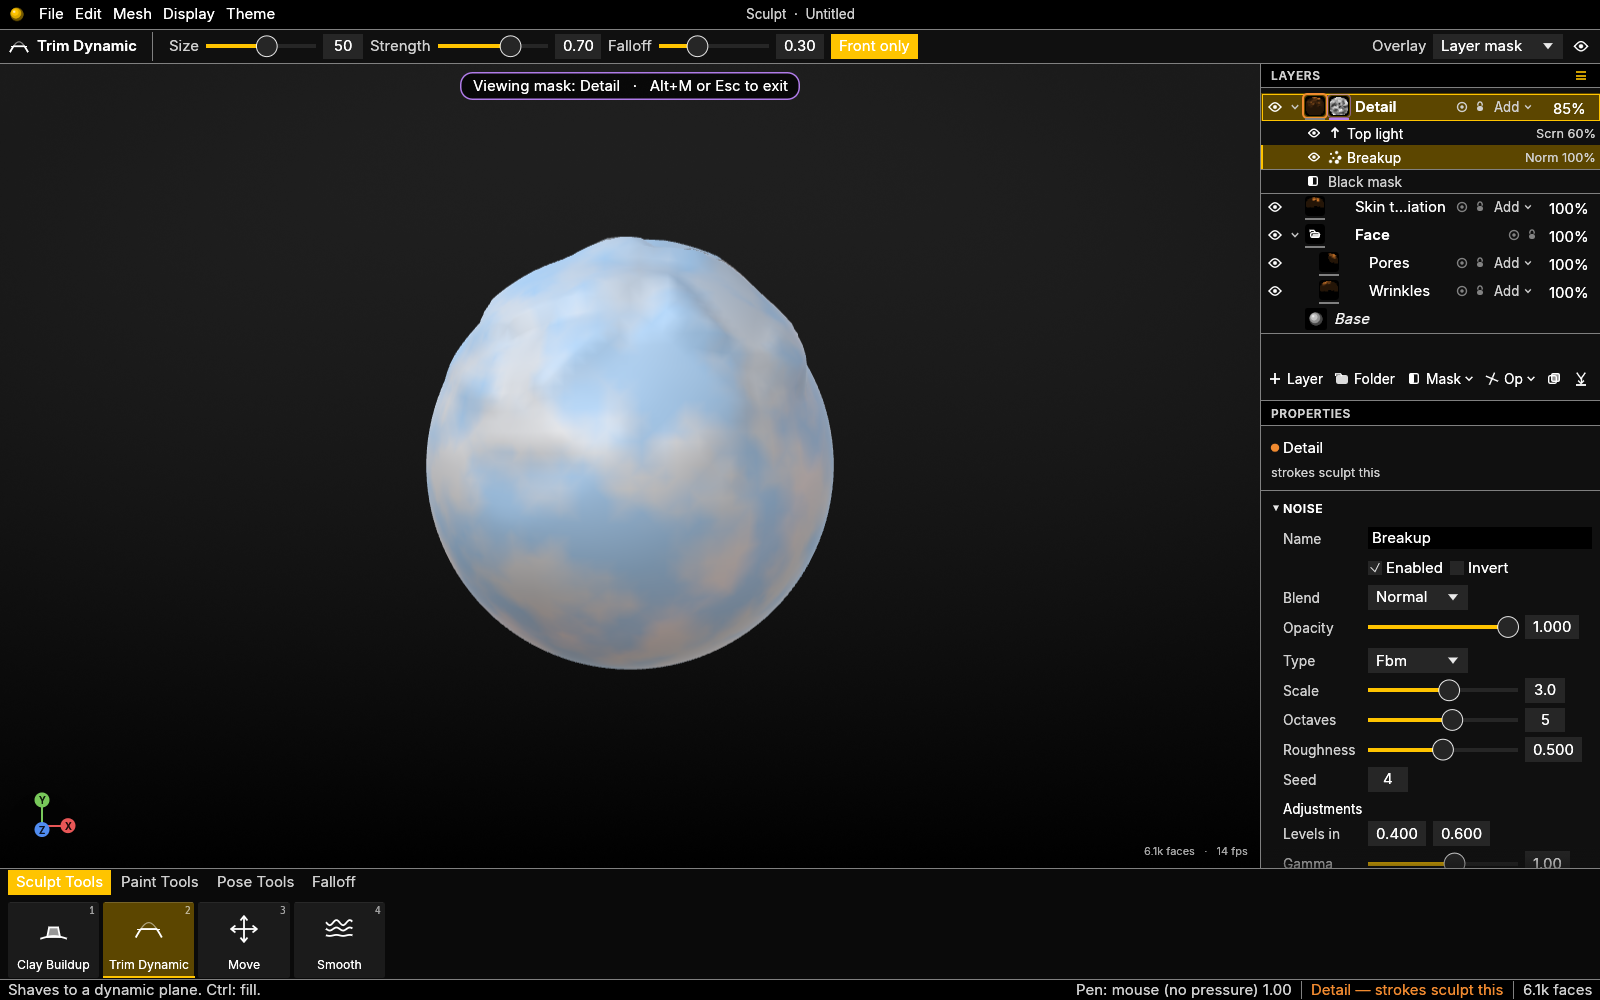
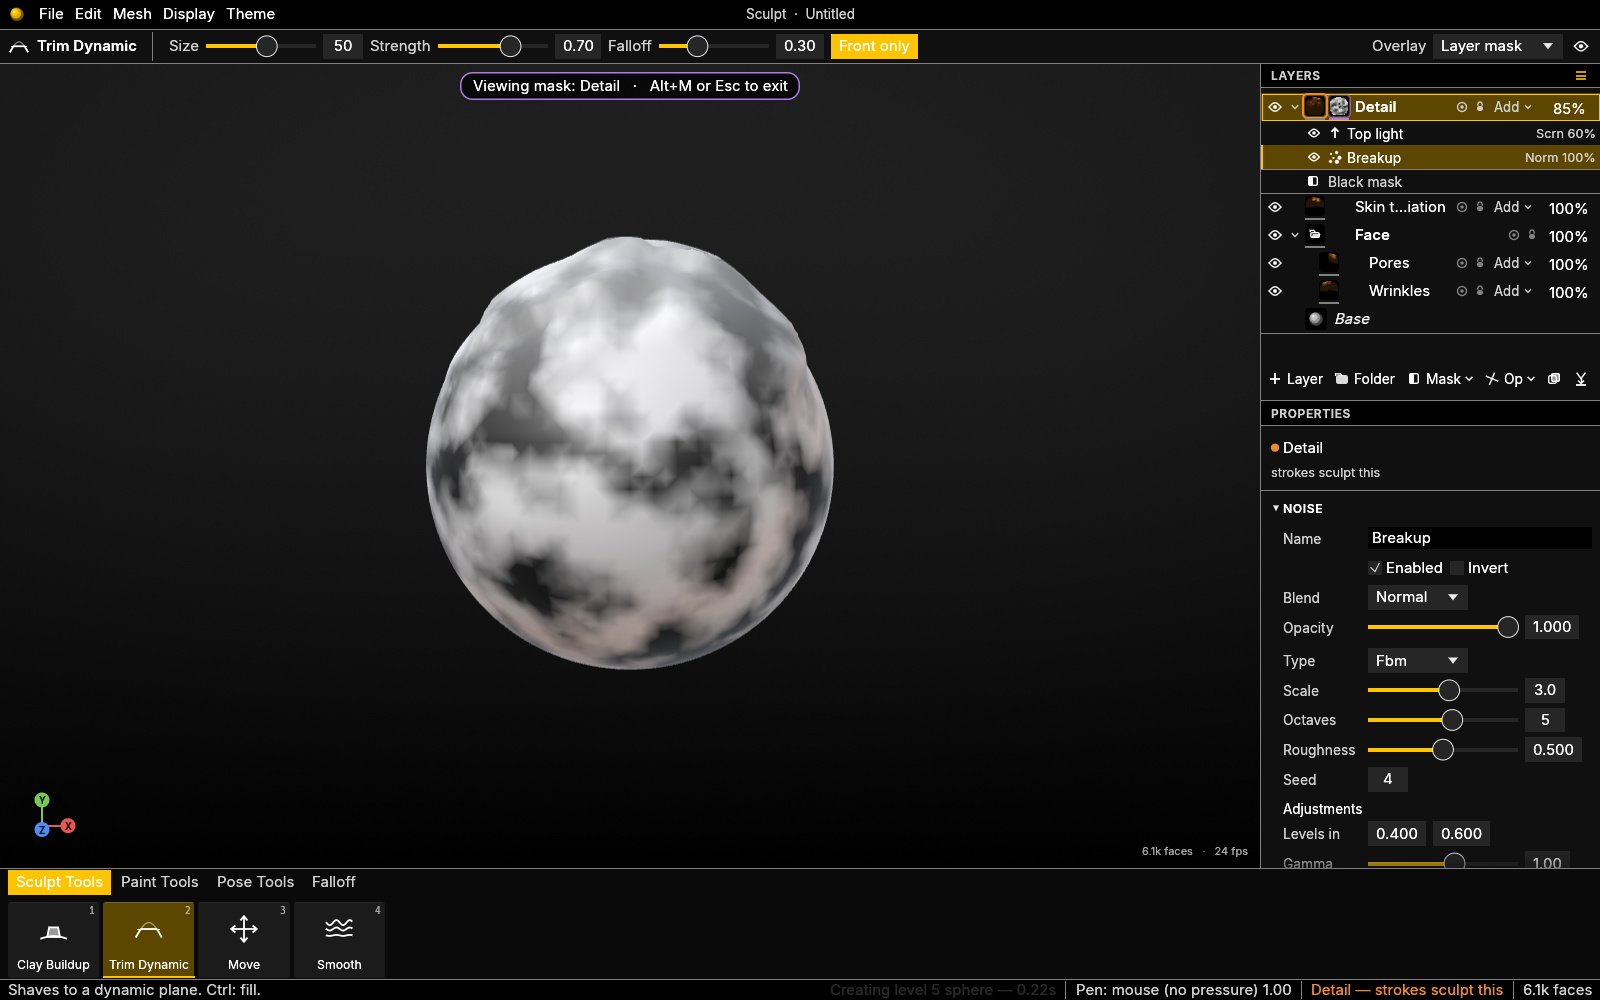
Radial ring spacing, docs and final capture set for review
Claude-Session: https://claude.ai/code/session_014dJVvZd6QPXwgevjRGwxr4

Changed region(s): [[0.25, 0.217, 0.5312, 0.682], [0.5312, 0.992, 0.625, 1.0], [0.7188, 0.837, 0.75, 0.868]]

diff --git a/sculpt/crates/sculpt-app/src/layer_panel/radial.rs b/sculpt/crates/sculpt-app/src/layer_panel/radial.rs
@@ -8,8 +8,8 @@ use super::mask_ops::{MaskAction, Preset};
 use crate::app::SculptApp;
 use crate::keymap::Command;
 
-const RADIUS: f32 = 82.0;
-const ITEM: egui::Vec2 = vec2(86.0, 30.0);
+const RADIUS: f32 = 120.0;
+const ITEM: egui::Vec2 = vec2(88.0, 30.0);
 
 /// What a radial item does when picked.
 #[derive(Clone, Debug, PartialEq)]

diff --git a/sculpt/docs/ux/scores/m6/CAPTIONS.md b/sculpt/docs/ux/scores/m6/CAPTIONS.md
@@ -4,13 +4,15 @@ Headless captures of the real app at 1600x1000 (software renderer). Menus and dr
 by a test hook, because a still image cannot hold an open menu. Hotkeys, inline typing and live clicks cannot
 be seen in stills. Panel crops show the right dock (layers over Properties).
 
-- `view_mask_banner.png`: the viewport while a mask is viewed (the Overlay is set to Layer mask): a banner names the layer and says how to exit. The overlay tints the surface.
+- `view_mask_banner.png`: the viewport while a mask is viewed: the surface shows the mask as greyscale (white applies, dark hidden) and a banner names the layer and says how to exit.
+- `more_states.png`: `nested` (a folder inside a folder), `drag_copy` (Ctrl+drag a row onto a folder: the ghost reads "(copy)"), `op_drag` (a mask op dragged to the top: purple insertion line), `folder_props` (Properties for a selected folder), `mask_base` (Properties for a mask's base value), and the earlier multi-select states view.
+- `radial.png`: the radial menu at the cursor (Q): eight layer actions around the pointer.
 - `full_default.png`: whole app. Layers top right, Properties below, paint target in the status bar.
 - `rows_a.png`: default; `states` (Pores hidden, Wrinkles locked, both selected, Skin tone at 40%); `multi` (two rows selected, Properties shows shared fields); `compact` (dense rows); `blend` (layers set to Min, Max, Normal, Subtract); `solo` (Skin tone soloed, others dimmed).
 - `rows_b.png`: `collapsed` folder; `rename` (inline edit of Wrinkles); `mask_off` (Detail's mask disabled); `preset` (a Curvature mask made in one step on Skin tone, selected); the add-mask menu on a layer without a mask, then on a layer with one.
 - `paint_target.png`: a hand-painted mask was just added to Skin tone in one step, its Paint op is selected and Mask Paint is the tool. Properties header and thumbnail frame show the target.
 - `paint_target_chip.png`: the brush chip in that same state.
-- `menus.png`: right-click menus: on a layer, on a folder, on a mask op row, and on empty space below the rows.
+- `menus.png`: right-click menus: on a layer, on a folder (note Flatten folder, Ctrl+M), on a mask op row, and on empty space below the rows.
 - `drags.png`: dragging a row into a folder, between rows, and a refused drop of a folder into its own child.
 - `viewport_chips.png`: the chip beside the brush for a layer, for a procedural mask op (refused) and for a locked layer (refused).
 - `viewport_menu.png`: the right-click menu opened in the viewport (same items as the panel menu).

diff --git a/sculpt/README.md b/sculpt/README.md
@@ -42,7 +42,7 @@ cargo run --release -p sculpt-app --features tablet      # + octotablet pen pres
 | `[` `]` / Shift+`[` `]` | brush size / strength |
 | `F` frame · `Shift+D` subdivide · `O` cycle overlay · `H` HUD | |
 | `Ctrl+L` new layer · `Ctrl+Shift+N` new folder · `Ctrl+D` duplicate · `Ctrl+G` / `Ctrl+Shift+G` group / ungroup | layers act on the selection |
-| `Tab` switch layer at the cursor · `M` paint target layer ⇄ mask · `Alt+M` view mask · right-click the viewport for the layer menu | |
+| `Tab` switch layer at the cursor · `Q` radial menu at the cursor · `Ctrl+M` flatten folder · `Shift+M` disable/enable mask · `Ctrl+Shift+C` / `Ctrl+Shift+V` copy / paste mask · `M` paint target layer ⇄ mask · `Alt+M` view mask · right-click the viewport for the layer menu | |
 | `Ctrl+E` merge down · `S` solo · `Shift+L` lock · `Shift+H` hide · `F2` rename · `Delete` delete | work while hovering the viewport too |
 
 Everything above is data: **themes** are JSON files (built-ins in
@@ -67,7 +67,7 @@ The layout is a Substance Painter / Mudbox hybrid:
   inserts above the selection. Every layer action is undoable with `Ctrl+Z`.
   **Masks** are one step: **Mask ▾** (or the **+** slot beside a layer's thumbnail, or right-click) offers
   White, Black, *From bake* (Curvature, Cavity, AO, Thickness), *From noise* and *Hand-painted*. A layer
-  with a mask lists its ops beneath it; right-click an op to disable, duplicate, move or delete it.
+  with a mask lists its ops beneath it; right-click an op to disable, duplicate, move or delete it, or drag it to reorder (a purple line shows where it lands).
   Click the mask thumbnail to paint it, Alt+click to view it in the viewport, Shift+click to disable or
   enable it (a red slash shows it is off). Mask menus also copy, paste, invert and remove masks.
 - **Paint target**: a chip beside the brush names what a stroke would change (orange = layer, purple = mask,

diff --git a/sculpt/docs/ARCHITECTURE.md b/sculpt/docs/ARCHITECTURE.md
@@ -83,6 +83,8 @@ into one step). Each command is a list of reversible `StructOp`s recorded in the
 same undo stack as strokes, so removed layers keep their data in the stack and
 undo/redo are exact. **Previews** (`preview.rs`): `delta_preview` and `mask_preview` sample at most 96 vertices per spatial leaf into a front-view grid, so cost follows the leaf count, not the face count. `edit_serial` bumps on every geometry or mask change; the UI cache (`layer_panel/thumbs.rs`) rebuilds a thumbnail only when the serial moved, it is over 0.5 s old, no stroke is in progress, and fewer than two were built this frame.
 
+Duplicating a layer or pasting a mask gives the copy its own hand-painted channels (`paint.layer<id>`), recorded in the same undo step. `flatten_layer` is undoable (touched base leaves are snapshotted); `flatten_folder` bakes Add-mode layers into one new layer and hides the folder.
+
 Project format v2 adds `kind`, `parent` and `collapsed`;
 v1 files load unchanged (fixture `tests/fixtures/v1_project`).
 
